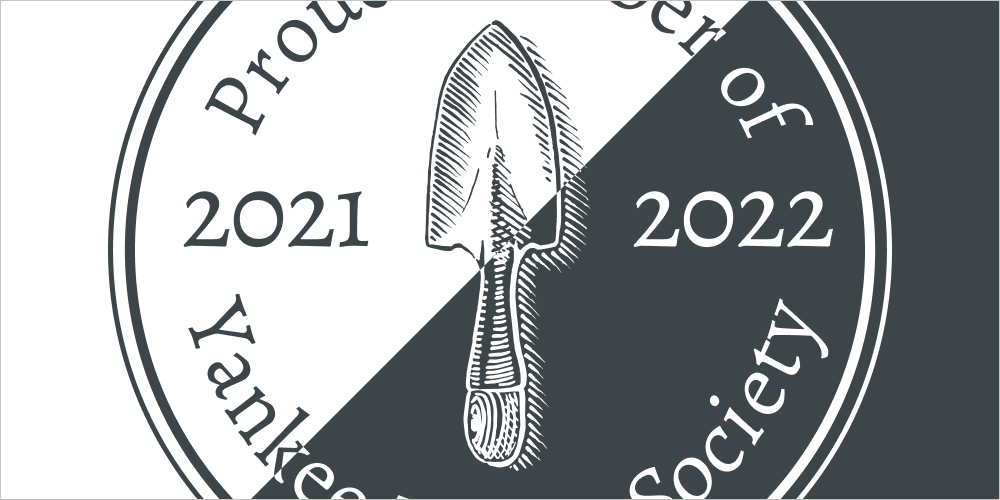
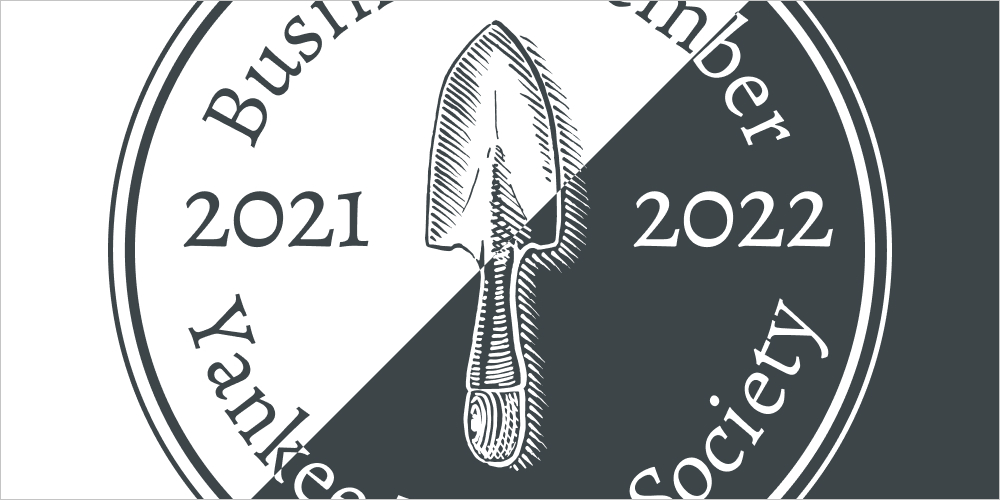
Updating biz member info images

Changed region(s): [[0.62, 0.0, 0.837, 0.3], [0.186, 0.0, 0.403, 0.3]]

diff --git a/202109/20210907_biz-member-info/20210907_biz-member-info.html b/202109/20210907_biz-member-info/20210907_biz-member-info.html
@@ -294,7 +294,7 @@
                           <tr>
                             <td>
                               <img
-                                src="https://www.yankeedahliasociety.com/email/202109/badges.jpg"
+                                src="https://www.yankeedahliasociety.com/email/202109/tell-others.jpg"
                                 width="100%"
                                 alt="Photo of several different color variations of the YDS member badge"
                               />
